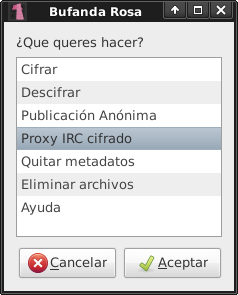
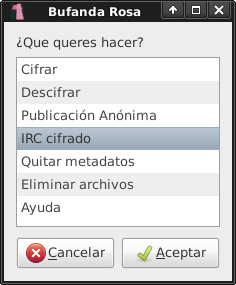
un poc mas corto

diff --git a/README.md b/README.md
@@ -18,7 +18,7 @@ bash bufandarosa -u
 ## IRC cifrado
 
 Genera un desvío de cualquier servidor IRC, cifrando los mensajes de salida y descifrando los de entrada. 
-Por ejemplo podemos utilizar `irc.freenode.net` y la clave `1234` (esta se usara para el cifrado). 
+Por ejemplo podemos utilizar `irc.freenode.net` y la clave `1234`, esta se usa para el cifrado. 
 
 <pre>
 echo "irc 'irc.freenode.net 6667' 1234 6667" | bufandarosa -c
@@ -32,7 +32,7 @@ echo "irc 'irc.freenode.net 6667' 1234 6667" | bufandarosa -c
 
 Esta inspirado en el concepto de [dirtirc](http://dirtirc.sf.net), pero con un cifrado mucho más fuerte basado en `GPG`.
 
-**Nota:** NO anonimiza la conexión.
+**Nota:** NO anonimiza la conexión, solo nuestros mensajes.
 
 ## Vieja escuela
 
